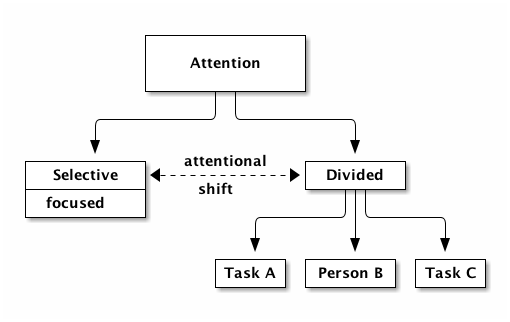
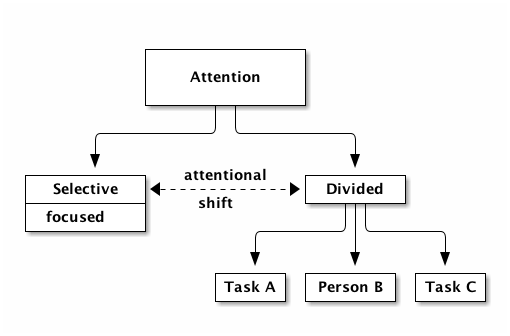
complete (?)

diff --git a/ultimate-productivity/talk.html b/ultimate-productivity/talk.html
@@ -24,7 +24,7 @@
 <body>
 <div class="reveal">
 <div class="slides">
-<section class="title-slide" id="sec-title-slide">
+<section id="sec-title-slide" class="title-slide">
 <h1>The Ultimate Productivity Tool</h1>
 <p><strong>Edd Steel</strong>, Platform Team</p>
 <p><a href="mailto:@eddsteel">@eddsteel</a></p>
@@ -42,7 +42,6 @@ Key theme: I often run ls to remember what I'm doing
 <section id="slide-sec-1-1">
 <h3 id="sec-1-1"><code>ls</code> and <code>sl</code></h3>
 <iframe src="http://localhost:3000/index.html" style="height: 90%; width: 100%;">
-Unable to connect to terminal app
 </iframe>
 <aside class="notes">
 <ul class="org-ul">
@@ -126,23 +125,10 @@ behave like resource pools "sharded" by function.
 </section>
 <section id="slide-sec-4-1">
 <h3 id="sec-4-1">Attention can be categorised</h3>
-<div class="org-src-container">
 
-<pre  class="src src-ditaa">           +---------------+
-           |               |
-           |   Attention   |
-           |               |
-           +------+-+------+
-                  | |
-      /-----------/ \-----------\
-      |                         |
-      V                         V
-+-----+-----+              +----+----+
-| Selective |              + Divided |
-+-----------+              +---------+
-|  focused  |              |unfocused|
-+-----------+              +---------+
-</pre>
+<div class="figure">
+<p><img src="imgs/attention-I.png" alt="attention-I.png" />
+</p>
 </div>
 
 <aside class="notes">
@@ -156,28 +142,10 @@ We're actually really bad at multi-tasking, and in a study those who rated thems
 </section>
 <section id="slide-sec-4-2">
 <h3 id="sec-4-2">Attention can be shifted</h3>
-<div class="org-src-container">
 
-<pre  class="src src-ditaa">            +---------------+
-            |               |
-            |   Attention   |
-            |               |
-            +------+-+------+
-                   | |
-       /-----------/ \-----------\
-       |                         |
-       V                         V
-+------+----+  attentional  +----+----+
-| Selective +&lt;-=-----------&gt;+ Divided |
-+-----------+    shift      +---+++---+
-| focused   |                   |||
-+-----------+          /--------/|\-------\
-                       |         |        |
-                       V         V        v
-                   +---+--+ +----+---+ +--+---+
-                   |Task A| |Person B| |Task C|
-                   +------+ +--------+ +------+
-</pre>
+<div class="figure">
+<p><img src="imgs/attention-II.png" alt="attention-II.png" />
+</p>
 </div>
 
 <aside class="notes">
@@ -441,10 +409,10 @@ CHOO CHOO!
 </section>
 <section>
 <section id="slide-sec-16" class="title-slide">
-<h2 id="sec-16">Questions?</h2>
-<p>
+<h1 id="sec-16">Questions?</h1>
+<h2>
 Thanks for shifting your selective attention!
-</p>
+</h2>
 </section>
 </section>
 </div>

diff --git a/ultimate-productivity/term/index.html b/ultimate-productivity/term/index.html
@@ -25,7 +25,7 @@
         </head>
         <body>
                <section>
-                 <pre class="terminaljs" data-columns="80" data-rows="24"></pre>
+                 <pre class="terminaljs" data-columns="80" data-rows="20"></pre>
                </section>
 
                <script>

diff --git a/ultimate-productivity/override.css b/ultimate-productivity/override.css
@@ -52,7 +52,7 @@ img {
 }
 
 iframe {
-    min-height: 500px;
+    min-height: 712px;
     height: 100%;
     width: 100%;
 }
